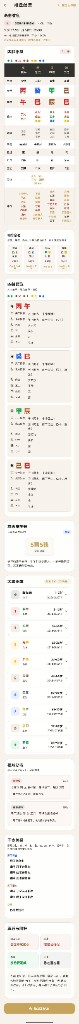
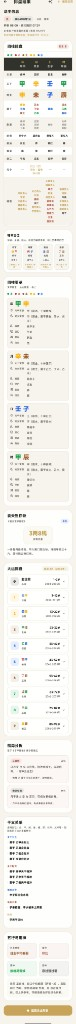
docs: 更新排盘结果与 AI 对话截图

diff --git a/README.md b/README.md
@@ -45,22 +45,42 @@
 
 | 登录 | 排盘录入 |
 |:---:|:---:|
-| <img src="docs/screenshots/login.png" width="220" alt="登录" /> | <img src="docs/screenshots/input.png" width="220" alt="排盘录入" /> |
+| <a href="docs/screenshots/login.png"><img src="docs/screenshots/login.png" width="280" alt="登录" /></a> | <a href="docs/screenshots/input.png"><img src="docs/screenshots/input.png" width="280" alt="排盘录入" /></a> |
 | 邮箱 / 手机验证码登录 | 公历农历 · 真太阳时 · 八字反查 |
 
-### 主页与排盘结果
+### 主页
 
-| 命主列表 | 排盘结果 |
-|:---:|:---:|
-| <img src="docs/screenshots/home.png" width="220" alt="命主列表" /> | <img src="docs/screenshots/result.png" width="220" alt="排盘结果" /> |
-| 命盘合集 · 保存记录 · 一键 AI | 四柱 · 大运 · 神煞 · 刑冲合害 |
+<p align="center">
+  <a href="docs/screenshots/home.png">
+    <img src="docs/screenshots/home.png" width="280" alt="命主列表" />
+  </a>
+</p>
+<p align="center"><sub>命盘合集 · 保存记录 · 一键进入 AI 看盘</sub></p>
+
+### 排盘结果
+
+点击下方分段图可查看原图；完整长图见 [`result.png`](docs/screenshots/result.png)。
+
+<p align="center">
+  <a href="docs/screenshots/result.png"><img src="docs/screenshots/result_part1.png" width="300" alt="排盘结果 1" /></a><br/>
+  <a href="docs/screenshots/result.png"><img src="docs/screenshots/result_part2.png" width="300" alt="排盘结果 2" /></a><br/>
+  <a href="docs/screenshots/result.png"><img src="docs/screenshots/result_part3.png" width="300" alt="排盘结果 3" /></a><br/>
+  <a href="docs/screenshots/result.png"><img src="docs/screenshots/result_part4.png" width="300" alt="排盘结果 4" /></a>
+</p>
+<p align="center"><sub>四柱 · 大运 · 神煞 · 刑冲合害 · 用神格局</sub></p>
 
 ### AI 看盘
 
-| 选盘入口 | 选择命盘 | AI 分析对话 |
-|:---:|:---:|:---:|
-| <img src="docs/screenshots/ai_select.png" width="200" alt="AI 选盘" /> | <img src="docs/screenshots/picker.png" width="200" alt="选择排盘" /> | <img src="docs/screenshots/ai_chat.png" width="200" alt="AI 对话" /> |
-| 选择已保存命盘 | 全部命盘 / 命盘合集 | 流式解读 · 追问 · 历史恢复 |
+| 选盘入口 | 选择命盘 |
+|:---:|:---:|
+| <a href="docs/screenshots/ai_select.png"><img src="docs/screenshots/ai_select.png" width="280" alt="AI 选盘" /></a> | <a href="docs/screenshots/picker.png"><img src="docs/screenshots/picker.png" width="280" alt="选择排盘" /></a> |
+
+<p align="center">
+  <a href="docs/screenshots/ai_chat.png"><img src="docs/screenshots/ai_chat_part1.png" width="320" alt="AI 对话 1" /></a><br/>
+  <a href="docs/screenshots/ai_chat.png"><img src="docs/screenshots/ai_chat_part2.png" width="320" alt="AI 对话 2" /></a><br/>
+  <a href="docs/screenshots/ai_chat.png"><img src="docs/screenshots/ai_chat_part3.png" width="320" alt="AI 对话 3" /></a>
+</p>
+<p align="center"><sub>流式解读 · 追问 · 历史恢复（点击任意分段查看原图）</sub></p>
 
 ---
 